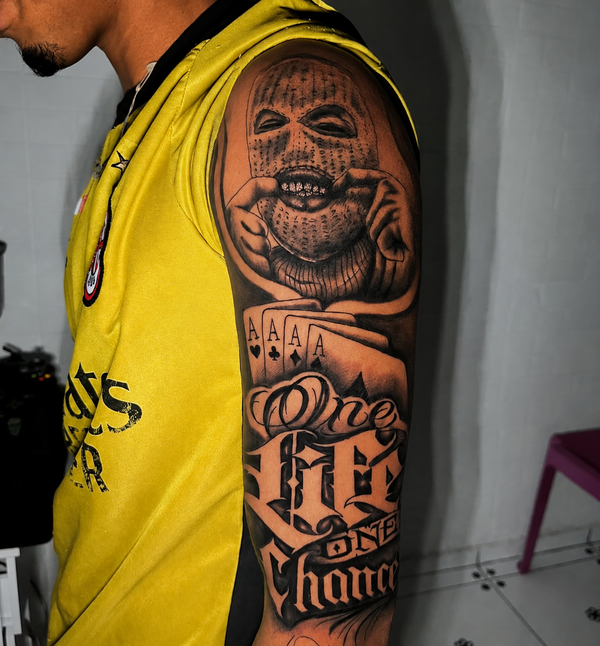
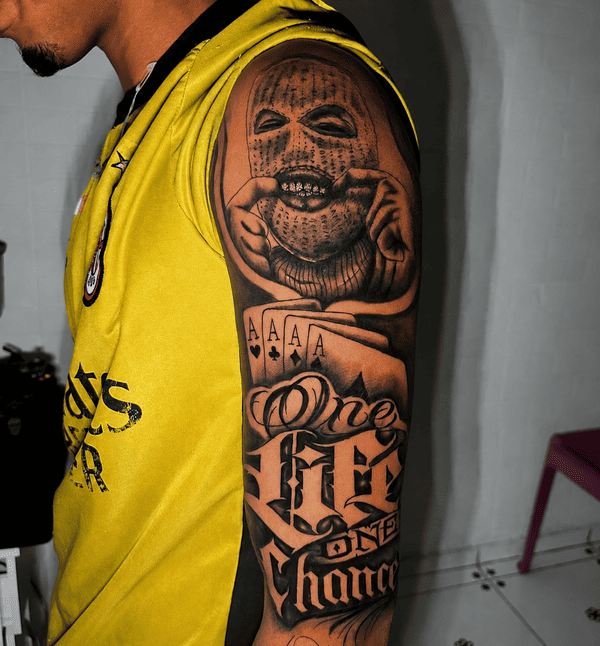
Comprimir imagens e apliquei SEO

diff --git a/index.html b/index.html
@@ -5,13 +5,33 @@
     <meta name="viewport" content="width=device-width, initial-scale=1.0" />
     <link rel="stylesheet" href="style.css" />
 
-    <title>Estudío tatuagem - SamuelSanguinete</title>
-    <meta name="description" content="" />
-    <meta property="og:title" content="" />
-    <meta property="og:description" content="" />
-    <meta property="og:image" content="" />
-    <meta property="og:url" content="" />
+    <title>Estúdio tatuagem - SamuelSanguinete, Pirapora-MG</title>
+    <meta name="description" content="Estúdio de tatuagem Pirapora-MG. Criações feitas à mão e no digital para garantir que sua tattoo seja única, exclusiva e feita sob medida para você!" />
+    <meta property="og:title" content="Estúdio tatuagem - SamuelSanguinete, Pirapora-MG" />
+    <meta property="og:description" content="Estúdio tatuagem - SamuelSanguinete, Pirapora-MG" />
+    <meta property="og:image" content="imagens/img-og.jpeg" />
+    <meta property="og:url" content="https://felipesantossdev.github.io/SamuelSanguinete/" />
     <link rel="shortcut icon" href="imagens/favicon.png" type="image/x-icon" />
+    <script type="application/ld+json">
+      {
+        "@context": "https://schema.org",
+        "@type": "TattooParlor",
+        "name": "SamuelSanguinete",
+        "telephone": "+55 38 98860-1846",
+        "image": "https://www.instagram.com/p/DYrkr0hDsLZ/?img_index=1",
+        "address": {
+          "@type": "PostalAddress",
+          "streetAddress": "R. Pres. Euríco Gáspar Dutra, 257",
+          "addressLocality": "Pirapora",
+          "addressRegion": "MG",
+          "postalCode": "39272-016",
+          "addressCountry": "BR"
+        },
+        "priceRange": "$",
+        "openingHours": "Mo-Su 08:00-18:00",
+        "paymentAccepted": "Cash, Credit Card, Pix"
+      }
+    </script>
   </head>
   <body>
     <!-- CABEÇALHO -->
